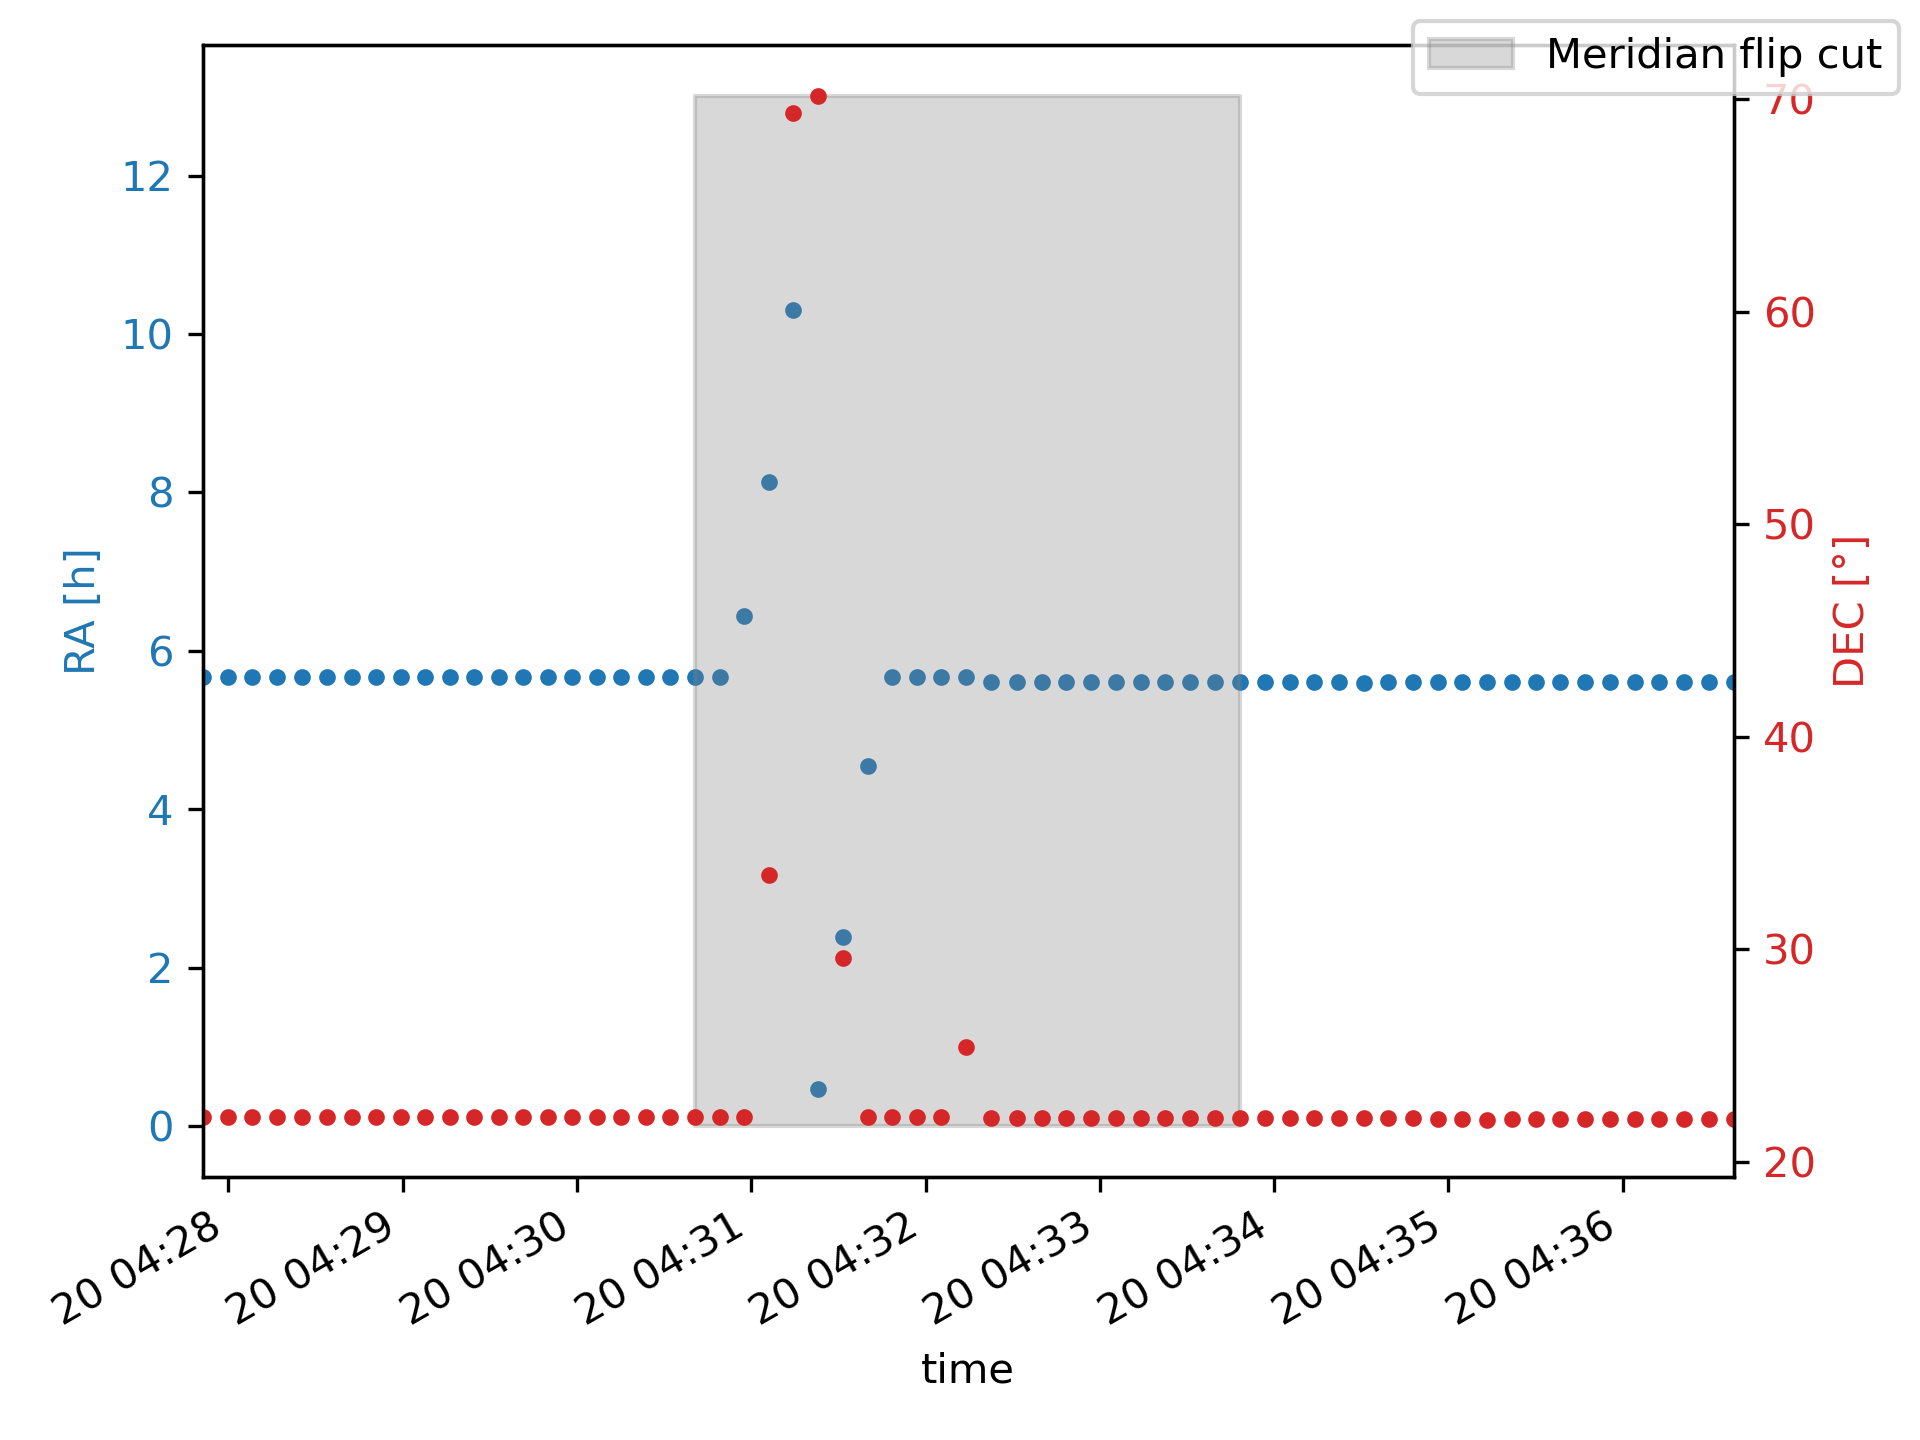
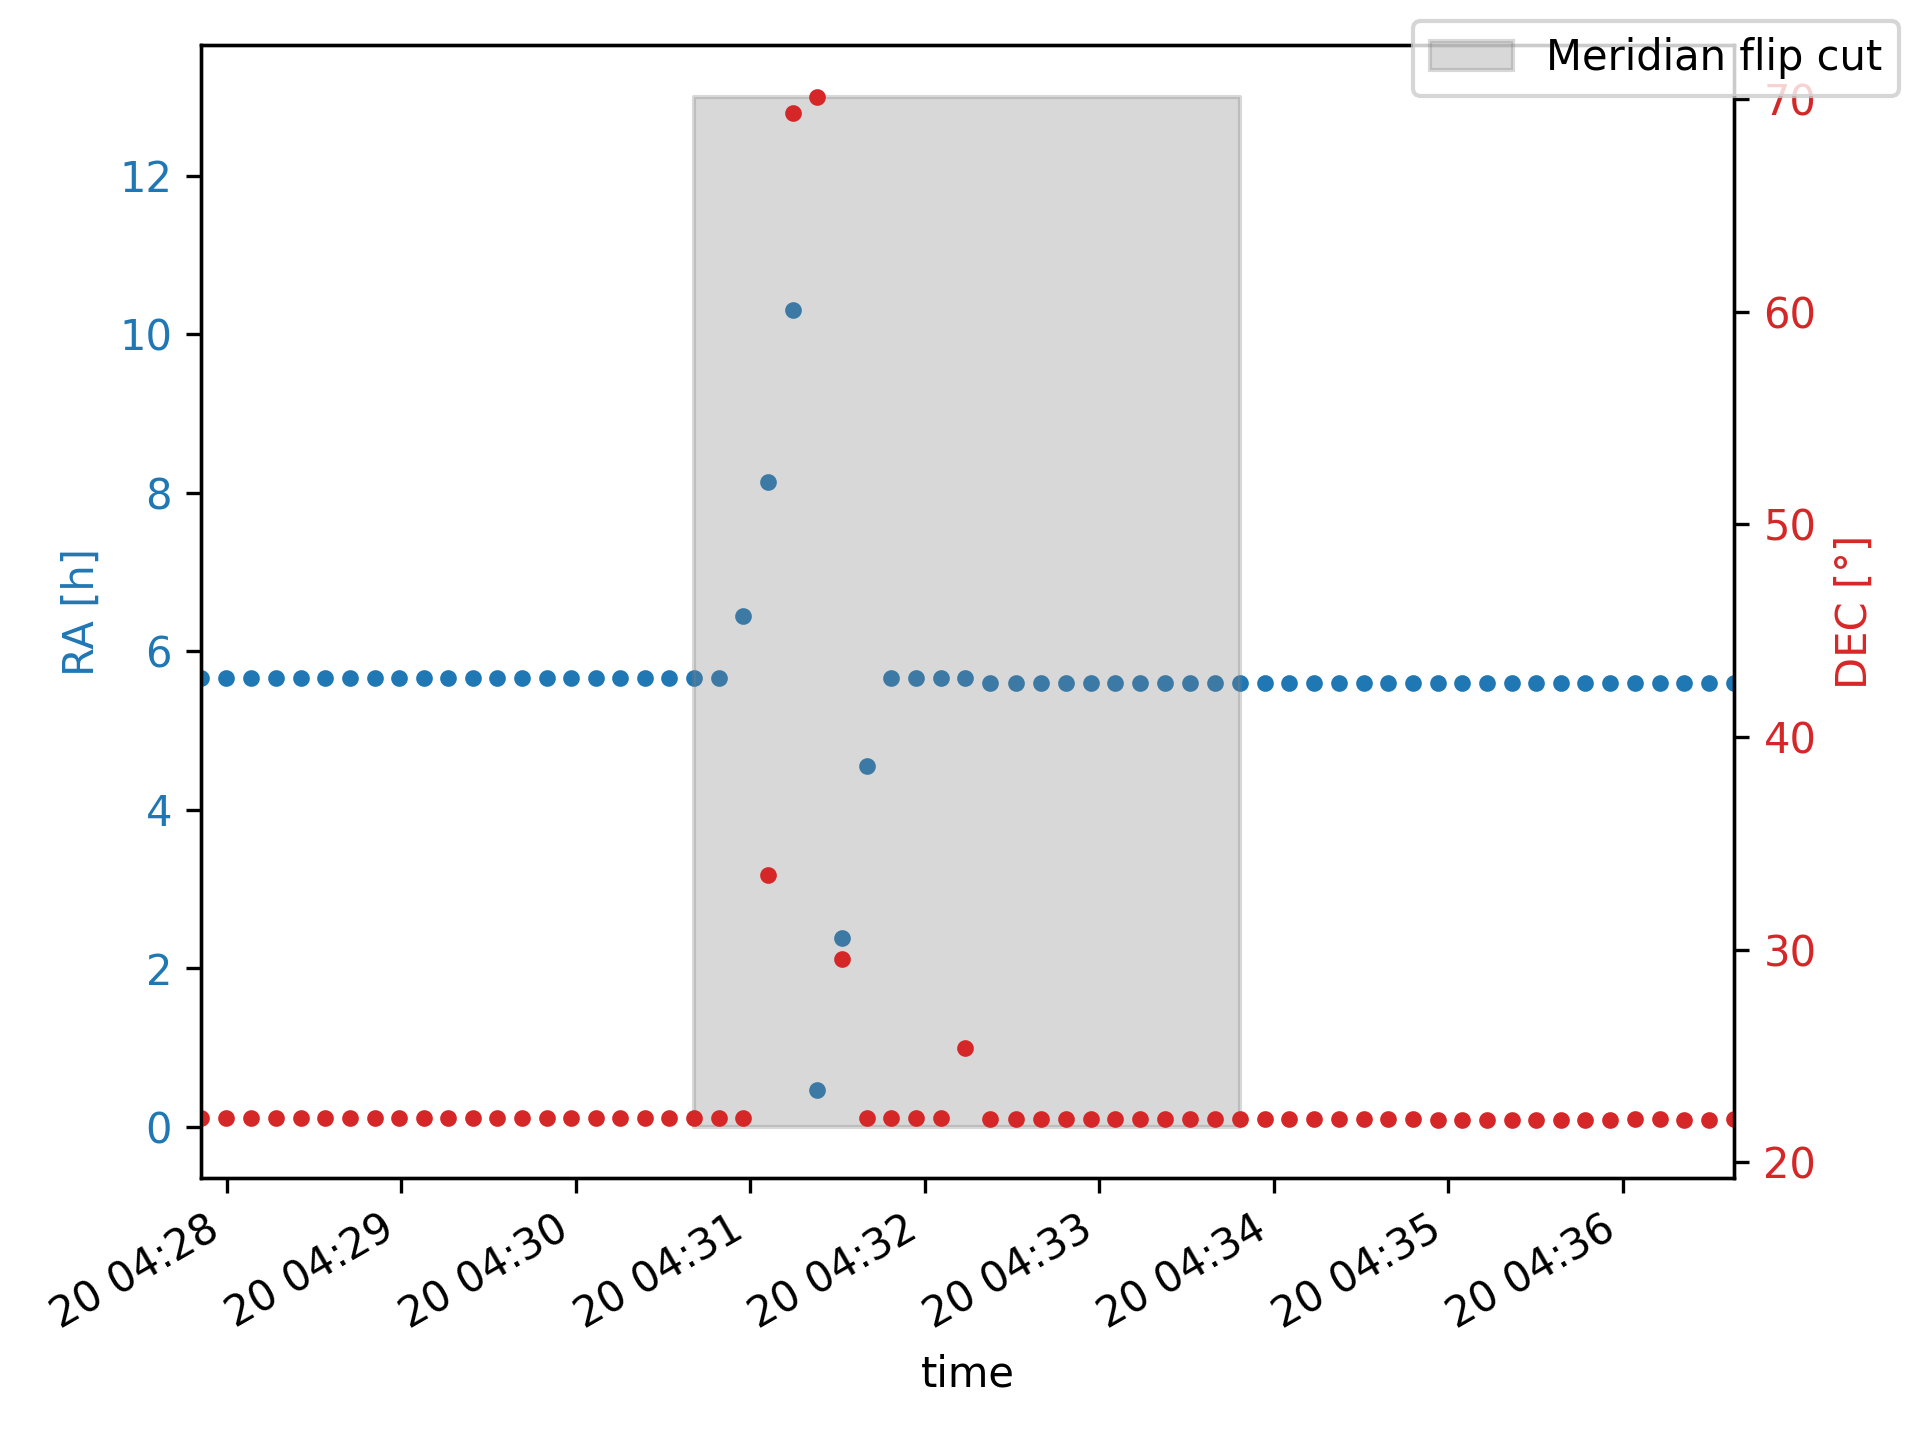
functions for rotating images after meridian flip

diff --git a/heap/correct_after_meridian_flip.py b/heap/correct_after_meridian_flip.py
@@ -1,0 +1,108 @@
+'''
+Functions to rotate frames after the meridian flip by 180°.
+'''
+
+import numpy as np
+import pandas as pd
+import matplotlib.pyplot as plt
+
+
+def divide_data_meridian_flip(data, timestamps, hk, time_after=60, plotting=False, path=None):
+
+    '''
+    Exactly the same as cut_meridian_flip from pre_cleaning.py but returns the data after cut in two chunks - before and after meridian flip cuts.
+    data: data array in (n_timesteps, n_pix*n_pix) 
+    timestamps: timestamp array in (n_timestamps)
+    hk: housekeeping pff data as read in
+    time_after: time frame in s to cut out after tracking is enabled again
+    plotting: plots RA and dec (which should stay constant during tracking) zoomed in around meridian flip timeframe if true
+    path: path to save the plot to
+    returns: tuple with data tuple (2 elements) with data (array) before and after flip cut, timestamp tuple (2 elements) with timestamps (array) before and after cut and UTC timestamps of start and end of the flip
+    '''
+
+    # Get timestamps, differences between timestamps and tracking booleans
+    time = np.asarray(hk["MOUNT_GATTINI"]["Computer_UTC"])
+    time_diff = np.diff(time)
+    track = np.asarray(hk["MOUNT_GATTINI"]["tracking"])
+
+    # Filter data where tracking was off and add a point before and after flip
+    no_track = np.where(track == "False")[0]
+    no_track = np.insert(no_track, [0, len(no_track)], [min(no_track)-1, max(no_track)+1])
+
+    # Also cut time when guiding was recalibrating (time_after)
+    instert_val_num = int(time_after/np.median(time_diff))+1 
+    no_track = np.append(no_track, np.arange(max(no_track), max(no_track)+1+instert_val_num, 1))
+
+    # Print info on meridian flip
+    time_pd = pd.to_datetime(time, unit='s', utc=True).tz_convert('America/Los_Angeles')
+    print("Start of meridian flip (local time): ", time_pd[no_track[0]], ", End: ",time_pd[no_track[-1]])
+    print("Duration of meridian flip cut: ", time[no_track[-1]]-time[no_track[0]])
+
+    # NEW: Make a before/after dataset
+    data_before_flip = data[(timestamps<time[no_track[0]])]
+    data_after_flip = data[(timestamps>time[no_track[-1]])]
+    data_post_cuts = (data_before_flip, data_after_flip)
+    timestamps_before_flip = timestamps[(timestamps<time[no_track[0]])]
+    timestamps_after_flip = timestamps[(timestamps>time[no_track[-1]])]
+    timestamps_post_cuts = (timestamps_before_flip, timestamps_after_flip)
+    print("Number of cut out events from meridian flip: ", len(data)-(len(data_before_flip)+len(data_after_flip)), " (", round((len(data)-(len(data_before_flip)+len(data_after_flip)))/len(data)*100, 2),"%)")
+
+    # Plotting to visualise cut
+    if plotting:
+        ra=hk["MOUNT_GATTINI"]["ra_hours"]
+        dec=hk["MOUNT_GATTINI"]["dec_deg"]
+        fig, ax1 = plt.subplots()
+        color = 'tab:blue'
+        ax1.set_xlabel('time')
+        ax1.set_ylabel('RA [h]', color=color)
+        ax1.scatter(time_pd,ra,marker=".",color=color)
+        ax1.tick_params(axis='y', labelcolor=color)
+        
+        ax2 = ax1.twinx()  # instantiate a second Axes that shares the same x-axis
+        
+        color = 'tab:red'
+        ax2.set_ylabel('DEC [°]', color=color)  # we already handled the x-label with ax1
+        ax2.scatter(time_pd,dec,marker=".",color=color)
+        ax2.tick_params(axis='y', labelcolor=color)
+        
+        ax1.fill_between(time_pd[no_track],y1=13,alpha=0.3,label="Meridian flip cut",color="grey")
+        ax1.set_xlim(time_pd[no_track[0]-20],time_pd[no_track[-1]+20])
+        fig.legend(loc=1)
+        fig.autofmt_xdate()
+        fig.tight_layout()
+        plt.savefig(path+"_meridian_flip.png",dpi=300)
+        plt.show()
+
+    return (data_post_cuts, timestamps_post_cuts, time[no_track[0]], time[no_track[-1]])
+
+
+def rotate_after_flip(data_post_cuts, timestamps_post_cuts, n_pix=32):
+
+    '''
+    Rotates data after meridian flip by 180° and appends to data before meridian flip.
+    data_post_cuts: tuple (2 elements) of data (array of dims (n_timestamps, n_pix*n_pix)) before and after flip cuts
+    timestamps_post_cuts: tuple (2 elements) of timestamps (array of dims (n_timestamps)) before and after flip cuts
+    returns: tupe of concatenated data and timestamps from before the flip and after the flip rotated by 180°
+    '''
+    
+    # Unpack data before and after cut
+    data_before_flip, data_after_flip = data_post_cuts
+    timestamps_before_flip, timestamps_after_flip = timestamps_post_cuts
+
+    # Reshape from (m, n) -> (m, n_pix, n_pix)
+    reshaped_data_after_flip = np.reshape(data_after_flip, (len(data_after_flip), n_pix, n_pix))
+
+    # Rotate (n_pix, n_pix) by 180°
+    rotated_data_after_flip = np.rot90(reshaped_data_after_flip, k=2, axes=(1, 2))
+
+    # Reshape from (m, n_pix, n_pix) -> (m, n)
+    reshaped_rotated_data_after_flip = np.reshape(rotated_data_after_flip, (len(data_after_flip), n_pix*n_pix))
+
+    # Append along axis 0 to xxx_before_flip
+    mer_flip_corr_data = np.concatenate((data_before_flip, reshaped_rotated_data_after_flip), axis=0)
+    mer_flip_corr_timestamps = np.concatenate((timestamps_before_flip, timestamps_after_flip), axis=0)
+
+    return (mer_flip_corr_data, mer_flip_corr_timestamps)
+
+
+

diff --git a/heap/pre_cleaning.py b/heap/pre_cleaning.py
@@ -55,9 +55,9 @@ def spike_cut(data,timestamps,bin_width=30,rate_cut=2,plotting=False,path=None):
     mask = ~bad_bins[bin_indices]
     timestamps_filtered = timestamps[mask]
     data_filtered=data[mask]
+    bin_centers = bins[:-1] + bin_width/2
+    time = pd.to_datetime(bin_centers, unit='s', utc=True).tz_convert('America/Los_Angeles')
     if plotting:
-        bin_centers = bins[:-1] + bin_width/2
-        time = pd.to_datetime(bin_centers, unit='s', utc=True).tz_convert('America/Los_Angeles')
         counts, _ = np.histogram(timestamps_filtered, bins=bins)
         rate_filtered = counts / bin_width
         fig,ax=plt.subplots(2,1,sharex=True)

diff --git a/heap/__version__.py b/heap/__version__.py
@@ -28,7 +28,7 @@ version_tuple: VERSION_TUPLE
 commit_id: COMMIT_ID
 __commit_id__: COMMIT_ID
 
-__version__ = version = '0.1.dev34+gbf1905a76.d20251112'
-__version_tuple__ = version_tuple = (0, 1, 'dev34', 'gbf1905a76.d20251112')
+__version__ = version = '0.1.dev39+g993e979fd.d20251113'
+__version_tuple__ = version_tuple = (0, 1, 'dev39', 'g993e979fd.d20251113')
 
-__commit_id__ = commit_id = 'gbf1905a76'
+__commit_id__ = commit_id = 'g993e979fd'

diff --git a/heap/__init__.py b/heap/__init__.py
@@ -3,5 +3,6 @@ from . import image_cleaning
 from . import parameterize
 from . import read_pcap
 from . import pre_cleaning
+from . import correct_after_meridian_flip
 
-__all__ = ["read_pcap", "parameterize", "image_cleaning", "pre_cleaning"]
+__all__ = ["read_pcap", "parameterize", "image_cleaning", "pre_cleaning", "correct_after_meridian_flip"]
